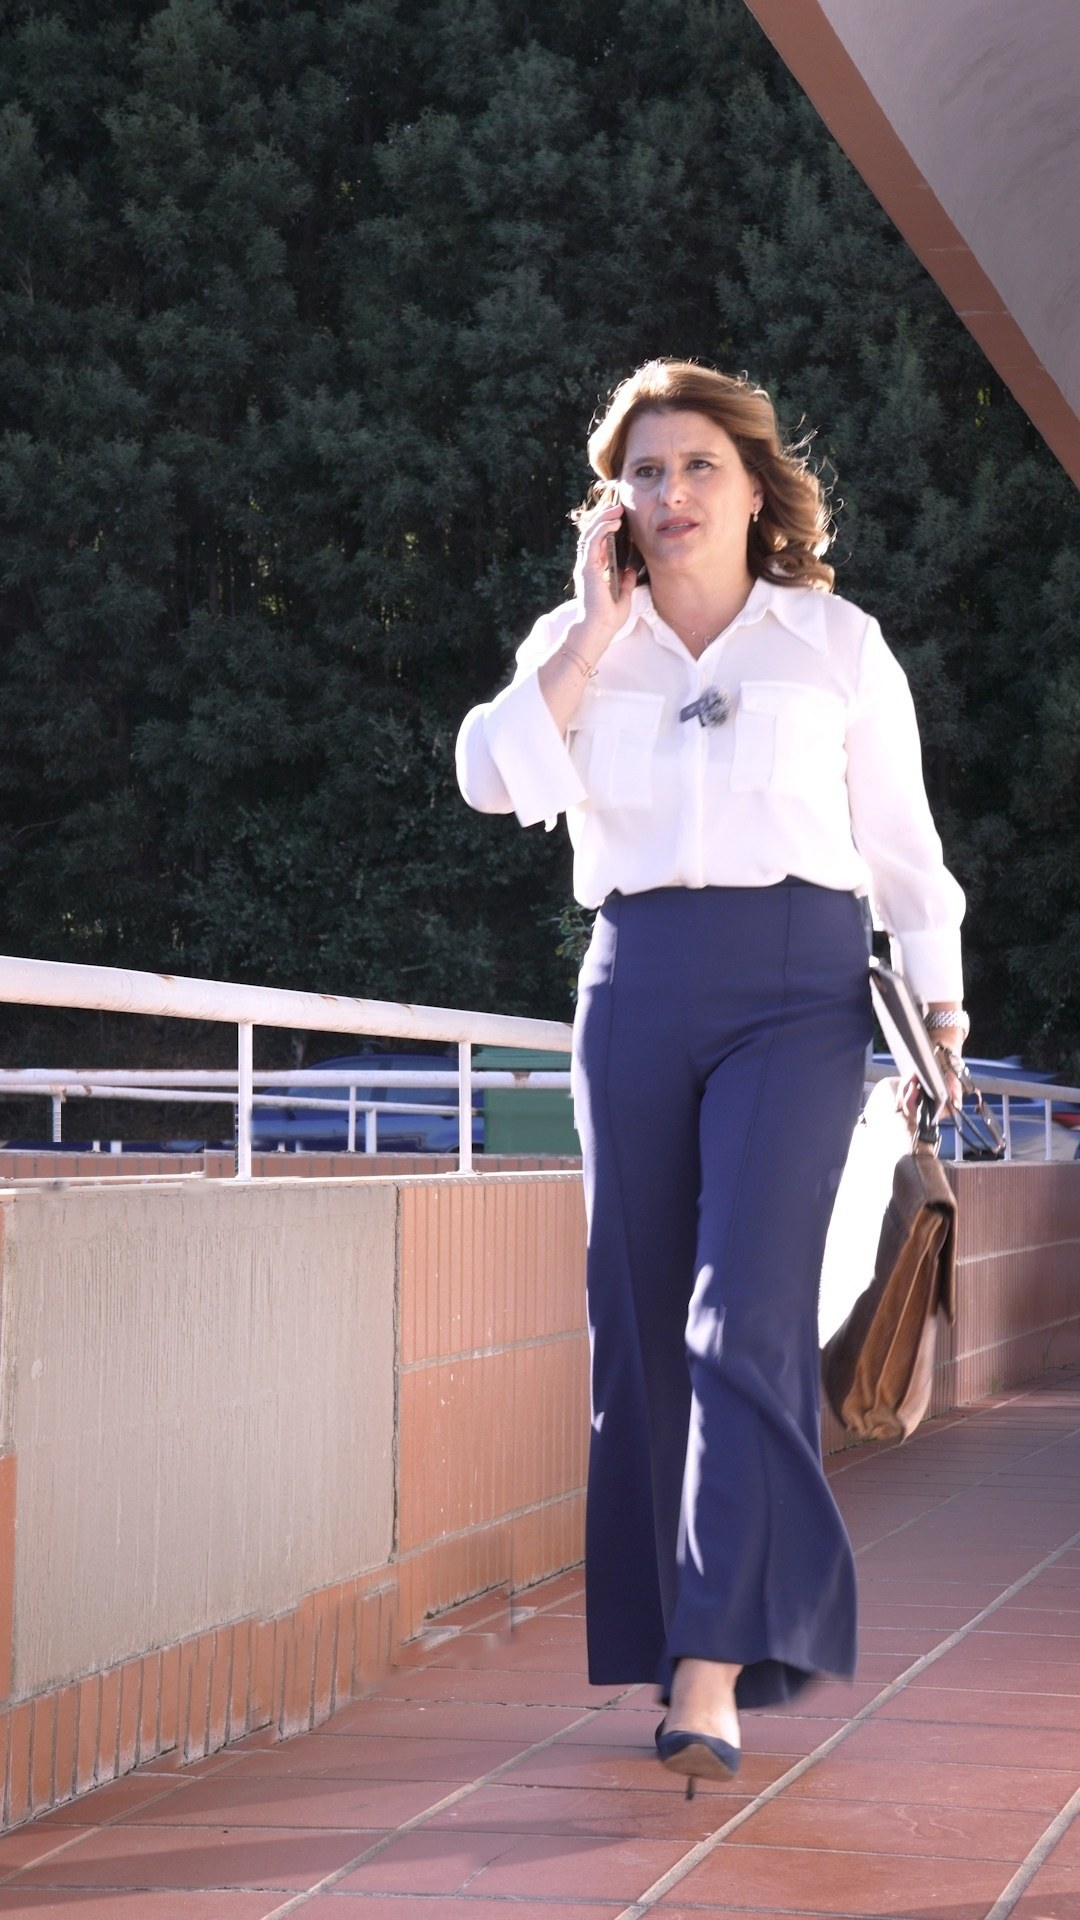
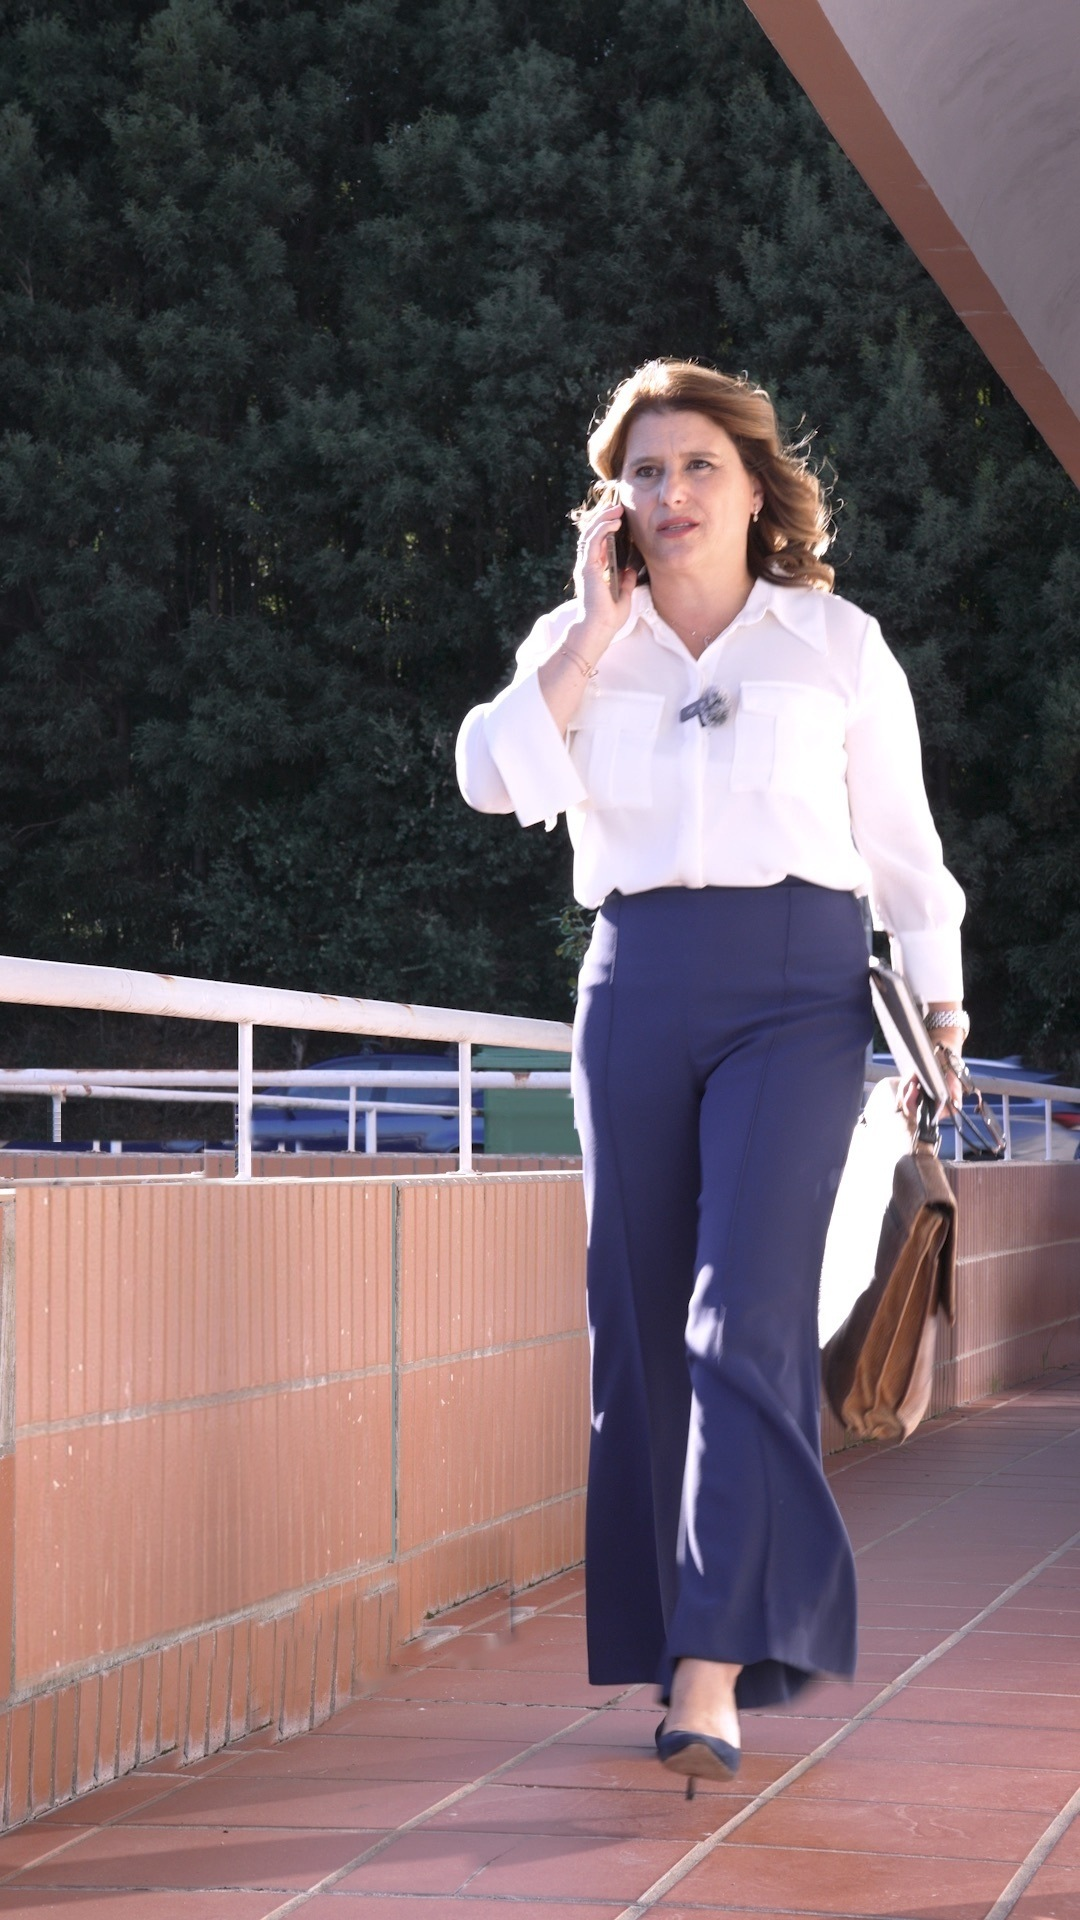
Foto do topo: muro de betão revestido a azulejo como o resto
Claude-Session: https://claude.ai/code/session_011GuU4FWcGt2gAwoDV6aCC4

Changed region(s): [[0.0, 0.5938, 0.3667, 0.875]]

diff --git a/index.html b/index.html
@@ -66,7 +66,7 @@
     <!-- INÍCIO -->
     <section class="hero" id="inicio">
       <div class="hero__media" data-hero-media>
-        <img src="img/hero-caminhar-editada.jpg" alt="Dra. Sónia Alexandra Santos, advogada em Santa Maria da Feira" width="1080" height="1920">
+        <img src="img/hero-caminhar-editada.jpg?v=2" alt="Dra. Sónia Alexandra Santos, advogada em Santa Maria da Feira" width="1080" height="1920">
       </div>
       <div class="wrap hero__grid">
         <div class="hero__texto">
